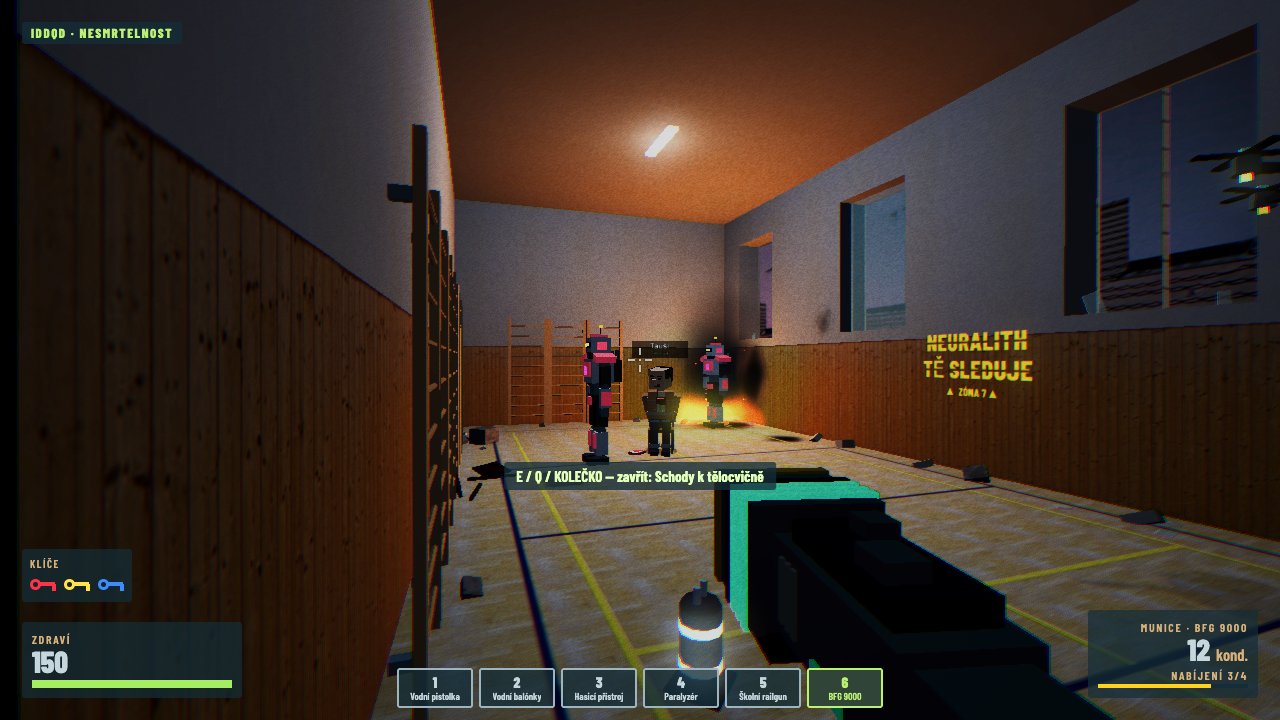
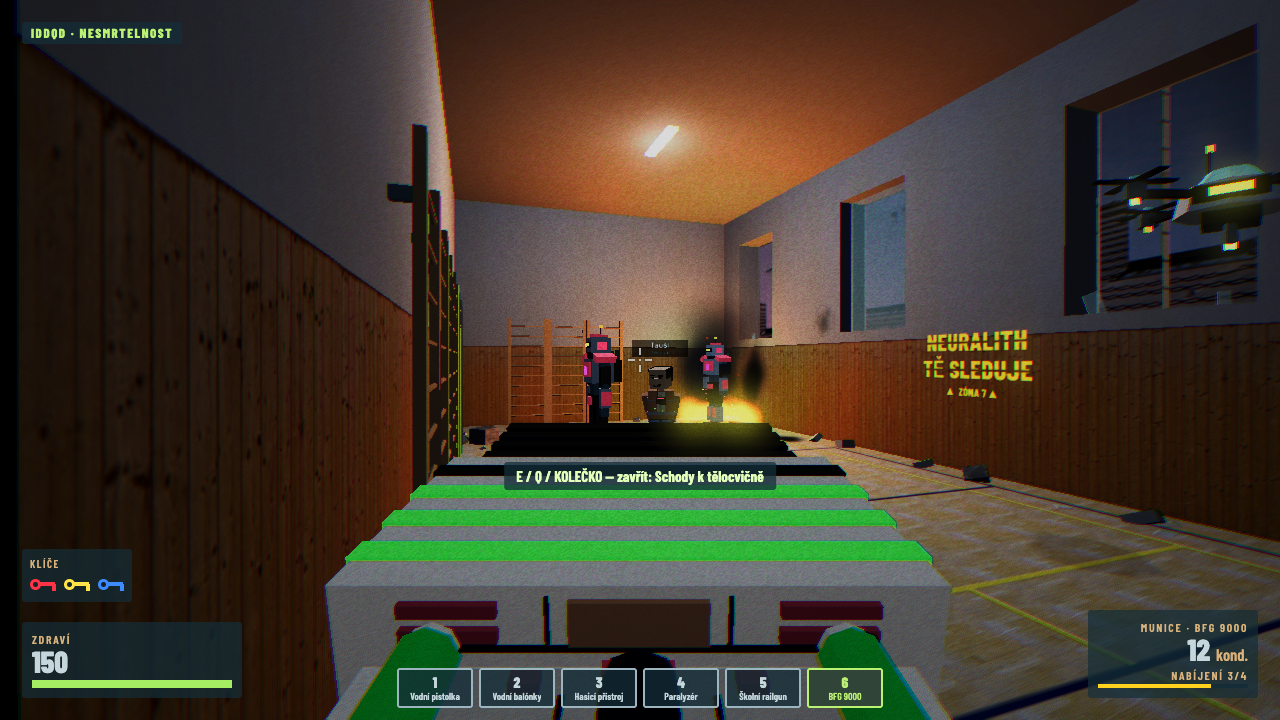
FEEDBACK: BFG 9000 looks like the Classic BFG-9000 — wide off-white body with circuitry, a white charge band whose four ribs light green one by one, black ribbed muzzle; 5 s cooldown
Model from primitives, 940 / 1000 triangles; viewmodel centred low and wide (scale 1.2, position [0, -0.37, 0.33],
nose up 10°) so 0–4 lit stripes read on top of the band; optional effect.partColor (neon.charge) for the glow of the
ribs, core and vents; BFG fireRate 0.2 (5 s cooldown).

diff --git a/src/weapons/models/Bfg9000Model.ts b/src/weapons/models/Bfg9000Model.ts
@@ -6,24 +6,25 @@ import { ModelParts } from "../../rendering/ModelParts";
 import { ModelRegistry } from "../../utils/ModelRegistry";
 
 const BLUEPRINT = "bfg9000";
-/** Parts that glow with the charge: the emitter in the muzzle, the four ribs of the front block (back to front), the vents. */
+/** Parts that glow with the charge: the emitter in the muzzle, the four ribs of the charge band (back to front), the vents. */
 const CORE = "core";
 const RIBS = ["rib1", "rib2", "rib3", "rib4"];
 const VENTS = ["ventL", "ventR"];
 
 /**
- * BFG 9000 (weapon 6, FEEDBACK 2026-10-04): a chunky capacitor cannon — boxy body with four capacitor cans along its
- * sides, a round barrel housing with a muzzle ring and three claws (blueprint `bfg9000`). Parameters: variant, colour
- * overrides, scale, light scale. Exposes the muzzle and the glowing parts — the emitter core, the four ribs of the
- * front block (one lights up per charge stage, back to front) and the green vents — which src/weapons/Bfg9000.ts
- * lights with the charge and darkens after a shot.
+ * BFG 9000 (weapon 6, FEEDBACK 2026-10-04): the Classic BFG-9000 — a wide off-white receiver covered in circuitry (top
+ * rails with green capsules, a black channel, brass capacitors, red lamps, side LED panel and button), a white charge
+ * band cut by four ribs and a black ribbed muzzle block (blueprint `bfg9000`). Parameters: variant, colour overrides,
+ * scale, light scale. Exposes the muzzle and the glowing parts — the emitter core in the muzzle, the four ribs of the
+ * charge band (one lights up per charge stage, back to front) and the green capsules on the top rails (vents) — which
+ * src/weapons/Bfg9000.ts lights with the charge and darkens after a shot.
  */
 export class Bfg9000Model {
   readonly root: TransformNode;
   readonly meshes: readonly Mesh[];
   readonly muzzle: TransformNode;
   readonly core: Mesh;
-  /** The front block's ribs, back (`rib1`) to front (`rib4`): one per charge stage. */
+  /** The charge band's ribs, back (`rib1`) to front (`rib4`): one per charge stage. */
   readonly ribs: readonly Mesh[];
   readonly vents: readonly Mesh[];
   /** Every glowing part: the core, the ribs, the vents. */

diff --git a/tests/e2e/bfg.spec.ts b/tests/e2e/bfg.spec.ts
@@ -9,7 +9,7 @@ import { WeaponBench } from "../support/WeaponBench";
 // per second), the full-charge ball in flight and its EMP burst; then the charge mechanics in the long hall
 // `weapons-long` (paused, deterministic `__game.step`): 1 s per stage, n capacitors spent, the EMP radius per stage
 // measured with robots 5 / 8 / 11 / 14 m from the impact, a release before the first stage spends nothing, the reserve
-// caps the stages, the 2 s cooldown, a weapon switch cancels; finally the first full-charge shot in real time with the
+// caps the stages, the 5 s cooldown, a weapon switch cancels; finally the first full-charge shot in real time with the
 // game's own settings (Střední, 1280×720 on a Retina ×2 display like hitches.spec.ts): no frame over 50 ms from the
 // press to the end of the blast, because the ball, the trail, the shell, the flash and the arcs are pooled and drawn in
 // the load-time warm-up (the BFG is `preload`) and the charge only changes uniforms.
@@ -444,7 +444,7 @@ test.describe("charge mechanics in the long hall", () => {
     expect(await plays(bfg.sounds.empty!)).toBe(clicks + 1);
   });
 
-  test("after a shot a 2 s cooldown (HUD bar) blocks a new charge, then the chime; a weapon switch cancels a charge and spends nothing", async () => {
+  test("after a shot a 5 s cooldown (HUD bar) blocks a new charge, then the chime; a weapon switch cancels a charge and spends nothing", async () => {
     await setup(POOL_MAX, false);
     const chimes = await plays(bfg.sounds.ready!);
     await page.evaluate((ms) => window.__game!.input!.simulate("fire", ms), STAGE_MS);

diff --git a/src/weapons/Bfg9000.ts b/src/weapons/Bfg9000.ts
@@ -72,6 +72,8 @@ export class Bfg9000 extends Weapon {
   private readonly balls: PlasmaBalls;
   private readonly blast: EmpBlast;
   private readonly effect: EffectData;
+  /** Glow colour of the ribs, core and vents (`effect.partColor`, else the ball's colour). */
+  private readonly partColor: string;
   private readonly core: Glowing;
   private readonly ribs: Glowing[];
   private readonly vents: Glowing[];
@@ -115,6 +117,7 @@ export class Bfg9000 extends Weapon {
     super(context, data);
     const param = (name: string): number => WeaponConfig.param(data, name);
     this.effect = WeaponConfig.effect(data);
+    this.partColor = this.effect.partColor ?? this.effect.color;
     this.stageTime = param("stageTime");
     this.maxStages = param("maxStages");
     this.stages = Array.from({ length: this.maxStages }, (_, i) => ({
@@ -470,7 +473,7 @@ export class Bfg9000 extends Weapon {
     const waiting = this.charging && this.completed >= this.cap;
     const pulse = waiting ? 1 + this.fullPulse * Math.sin(t * FULL_PULSE_RATE) : 1;
     const apply = ({ material, base }: Glowing, level: number, full: number): void => {
-      material.emissiveColor = level > 0 ? base.add(PaletteColor.emissive(this.effect.color, full * level * pulse)) : base;
+      material.emissiveColor = level > 0 ? base.add(PaletteColor.emissive(this.partColor, full * level * pulse)) : base;
     };
     apply(this.core, this.coreLevel, this.coreGlow);
     for (const vent of this.vents) apply(vent, this.coreLevel, this.ventGlow);

diff --git a/src/weapons/WeaponConfig.ts b/src/weapons/WeaponConfig.ts
@@ -90,6 +90,8 @@ export interface StreamData {
 export interface EffectData {
   color: string;
   colorEnd: string;
+  /** Colour of the weapon's own glowing parts (the BFG's ribs, core and vents); `color` when omitted. */
+  partColor?: string;
   /** Colour multiplier of the particles (above 1 reaches the bloom threshold). */
   glow: number;
   /** Particles per shot (drops off the water jet, impact sparks, sparks along the beam). */
@@ -261,6 +263,7 @@ export class WeaponConfig {
             {
               color: Schema.paletteRef(),
               colorEnd: Schema.paletteRef(),
+              partColor: Schema.paletteRef(),
               glow: positive(),
               particles: Schema.integer({ min: 0 }),
               size: range2(),
@@ -274,7 +277,7 @@ export class WeaponConfig {
               width: Schema.number({ min: 0.001 }),
               glowWidth: Schema.number({ min: 1 }),
             },
-            ["time", "segment", "jitter", "forks", "width", "glowWidth"],
+            ["partColor", "time", "segment", "jitter", "forks", "width", "glowWidth"],
           ),
           params: Schema.record(Schema.number()),
         },

diff --git a/tests/data/weapons-data.test.ts b/tests/data/weapons-data.test.ts
@@ -126,7 +126,7 @@ test("weapons.json: the BFG 9000 (FEEDBACK 2026-10-04) — Doom-like plasma ball
   const p = bfg.params;
   assert.equal(p.stageTime, 1, "each stage takes 1 s");
   assert.equal(p.maxStages, 4, "four stages, one rib each");
-  assert.equal(1 / bfg.fireRate, 2, "a short 2 s cooldown after a shot");
+  assert.equal(1 / bfg.fireRate, 5, "a 5 s cooldown after a shot (FEEDBACK 2026-10-04: 2 s was too short)");
   assert.deepEqual([1, 2, 3, 4].map((n) => p[`empRadius${n}`]), [6, 9, 12, 15], "EMP radius per stage");
   for (let n = 1; n <= 4; n++) {
     assert.ok(p[`stunRadius${n}`]! > p[`empRadius${n}`]!, `stage ${n} stuns a little farther out`);

diff --git a/DECISIONS.md b/DECISIONS.md
@@ -556,3 +556,12 @@ Měřeno ve hře, ne spočítáno: `tests/e2e/weapons-balance.spec.ts` v nové d
 - **Testy: `bfg.spec.ts` (snímky `bfg-ready`, `bfg-charge-1`–`4`, `bfg-ball-flying`, `bfg-blast-4`, `bfg-charge-capped`; v hale `weapons-long` přesné časy stupňů po krocích, poloměr po stupních s roboty 5 / 8 / 11 / 14 m od místa dopadu, puštění před 1 s, strop zásobou, prodleva 2 s, zrušení přepnutím; první plně nabitý výstřel v reálném čase), `weapons-all`, `weapons-balance` (lavice drží spoušť po dobu nabíjení, `WeaponBench.plan(…, stages)`), `playthrough` (finále v tělocvičně plným nabitím), `keyboard-only` (držení F), `cheats` (IDKFA = strop 4 stupně); nový test hook `__game.weapons.setReserve(type, n)`. Snímky `bfg-spinup`, `bfg-recharging`, `bfg-explosion`, `bfg-emp` jsou smazané (ukazovaly zrušené chování).**
 - **Souboj v `perf-combat.spec.ts` drží spoušť u BFG 1,2 s (`CombatScript` `BFG_TRIGGER_DOWN_MS`), aby BFG při střídání zbraní dál vystřelil (1 stupeň); `low-720` hlásí 1 pipeline / překlad „default“ po přepnutí předvolby i na předchozím commitu 9b31cb4 bez téhle změny (ověřeno A/B ve worktree), není to regrese nabíjení — ostatní kombinace 0 překladů, `bfg.spec.ts` (plně nabitý první výstřel) 0 překladů a 0 pipeline, nejdelší snímek 27–29 ms, `hitches.spec.ts` max 26,5 ms.**
 - **Žebra BFG svítí i nahoře** (člověk, 2026-10-04): čtyři žebra přečnívají přední blok o 1,5 cm i shora, jsou tenčí (11 mm) a dál od sebe (po 4 cm), takže z pohledu hráče jsou při nabíjení vidět jako čtyři oddělené zelené pruhy na boku i na horní straně.
+
+## FEEDBACK 2026-10-04 — BFG 9000 jako Classic BFG-9000, chlazení 5 s
+
+- **Model `bfg9000` je předělaný podle konceptu Classic BFG-9000 z Doom Eternal (bílá, obvody, čitelný z boku) se šířkou a pohledem spritu z Dooma 1993 (předlohy jen jako reference tvaru, nic se nestahovalo), 940 / 1000 trojúhelníků:** široké pouzdro 40 cm v nových barvách palety `world.bone` / `world.boneShade` (teplá lomená bílá, ne čistá, aby ji bloom nepřepálil) s vlastním svitem 0,3, protože zbraň v ruce má ztlumená světla (`lightScale` 0,4) a bílá by jinak v tmavé chodbě vypadala hnědošedě; barevné drobnosti (červené kontrolky, LED, měď) svítí nejvýš slabě (≤ 0,25), člověk nemá rád přepálenou záři.
+- **Nabíjecí pás je bílý blok před pouzdrem, vyšší než horní trubky, a čtyři žebra `rib1`–`rib4` ho obepínají shora, zdola i z boků s bílými 3cm segmenty mezi sebou a přečnívají jen o 3 mm:** z pohledu hráče se horní strana pásu dívá skoro z boku, takže vyšší žebra (dřív 1,5 cm) zakrývala mezery a pruhy splývaly; žebra v rovině se segmenty se nepřekrývají. Pás převyšuje trubky, aby ho nic před ním nezakrylo.
+- **Svit žeber, jádra a průduchů má vlastní barvu `effect.partColor` (nová paleta `neon.charge`, zelená), koule a pulz zůstaly `neon.plasma`:** člověk chce „zelené pruhy“, `neon.plasma` je tyrkysová; nepovinný klíč nemění ostatní zbraně ani logiku nabíjení. Nesvícená žebra jsou tmavě zelenošedá (`world.ribGreen`).
+- **Průduchy `ventL` / `ventR` jsou zelené kapsle na dvou horních trubkách, jádro `core` je v otvoru černého žebrovaného bloku ústí.**
+- **Zbraň v ruce: `scale` 1,2, `position` [0, −0,37, 0,33], `rotationDeg` [−10, 0, 0] (nos zvednutý o 10°):** při pohledu zezadu je horní plocha pásu skoro souběžná s paprskem pohledu; sklon nosem dolů ji schová, zvednutý ji natočí k hráči, takže 0–4 pruhy jsou vidět přes ~120 px výšky. Zbraň je uprostřed dole a zabírá přes polovinu šířky obrazu (720p), horní hrana ústí končí ~70 px pod zaměřovačem.
+- **Chlazení BFG po výstřelu je 5 s (`fireRate` 0,2):** člověk: „chlazení klidně 5 s, ty 2 jsou málo“. Testy berou prodlevu z dat (`1 / fireRate`), HUD pruh „CHLAZENÍ…“ ji sleduje sám; datový test hlídá 5 s. Vyvážení (`weapons-balance.spec.ts`): TTK beze změny 4,10–4,13 s, „DPS“ z cyklu 4 s nabíjení + 5 s chlazení klesla na 111 / 139 (dřív 167 / 208).

diff --git a/FEEDBACK.md b/FEEDBACK.md
@@ -118,3 +118,10 @@ Zapracováno 2026-10-04 (každá místnost má styl stěn v `data/interior.json`
 
 Zapracováno 2026-10-04 (stupně po 1 s, nejvýš min(4, kondenzátory v zásobě), puštění vystřelí kouli síly n za n kondenzátorů, EMP 6 / 9 / 12 / 15 m a ztuhnutí 10 / 13 / 16 / 19 m, koule větší a jasnější se stupněm; žebra rib1–rib4 se rozsvěcují po jednom (nabíjené roste během své sekundy), jádro a průduchy svítí s nabitím, plně nabité jemně pulzuje, po výstřelu tma; kvílení `bfgCharge1`–`4` stoupá po stupních, na stropu zásoby cvakne `bfgDeny`; HUD „NABÍJENÍ n/4“, se stropem „NABÍJENÍ 2/4 · MAX 2“, po výstřelu „CHLAZENÍ…“ s pruhem 2 s; BFG nemá vlastní zásobník, bere rovnou ze společných kondenzátorů (při předání +4); přepnutí zbraně nabíjení zruší; plné nabití: TTK 4,1 s, dostřel 87,8 m; první plně nabitý výstřel bez překladu shaderu, nejdelší snímek ~28 ms; snímky `screenshots/bfg-charge-1.png` … `bfg-charge-4.png`, `bfg-blast-4.png`, `bfg-charge-capped.png`, `bfg-ball-flying.png`, `bfg-ready.png`; testy `tests/e2e/bfg.spec.ts`, `weapons-all.spec.ts`, `weapons-balance.spec.ts`, `playthrough.spec.ts`, `keyboard-only.spec.ts`, `cheats.spec.ts`; rozhodnutí v DECISIONS „FEEDBACK 2026-10-04 — BFG 9000 se nabíjí jako v Doomu 3“)
 - „Svítící pruhy i nahoře.“ Zapracováno 2026-10-04.
+
+## 2026-10-04 — BFG velký, široký a bílý s obvody, chlazení 5 s
+- „Podívej se, jak vypadá tradiční BFG v Doomovi. Je důležitý, aby bylo fakt velký. To znamená, je to široká zbraň. A vepředu je ta část s těma pruhama, tu můžeš klidně trošku natáhnout, aby se tam daly vidět nula až čtyři rozsvícené pruhy. Ale důležitý je, že ta zbraň je bílá a jsou na ní vidět ty různé komplikované obvody. Zkus ten vzhled předělat, aby to vypadalo víc takhle.“
+- Doplněno: hlavní předloha je koncept „Classic BFG-9000“ z Doom Eternal (bílá, obvody, dobře čitelná i z boku), nabíjení musí být jasně vidět — čtyři zelené prvky se rozsvěcují po jednom.
+- „Chlazení klidně 5 s, ty 2 jsou málo.“
+
+Zapracováno 2026-10-04 (nový model z primitiv 940 trojúhelníků: široké teple bílé pouzdro s obvody — černý středový kanál, dvě bílé trubky se zelenými kapslemi (svítí s nabitím), mosazné kondenzátory, červené kontrolky a LED lišta, tmavé spoje, z boku spáry, červený LED panel a kulaté tlačítko; před ním bílý nabíjecí pás se čtyřmi žebry, která ho obepínají shora i po stranách a rozsvěcují se po jednom jasně zeleně (`neon.charge`), na zadní stěně pásu červené pruhy a měděná deska jako u Dooma 1993; vpředu černý žebrovaný blok ústí s jádrem; v ruce je zbraň uprostřed dole, přes polovinu šířky obrazu, mírně zvednutá, aby byla horní strana pásu a 0–4 pruhy vidět, zaměřovač volný; chlazení po výstřelu 5 s; snímky `screenshots/bfg-look-0.png`, `bfg-look-2.png`, `bfg-look-4.png`, `bfg-look-side.png`, `bfg-look-gallery.png`; testy `model-budget.spec.ts`, `bfg.spec.ts`, `weapons-all.spec.ts`, `weapons-balance.spec.ts`, `keyboard-only.spec.ts`, datový test chlazení 5 s; rozhodnutí v DECISIONS „FEEDBACK 2026-10-04 — BFG 9000 jako Classic BFG-9000, chlazení 5 s“)
